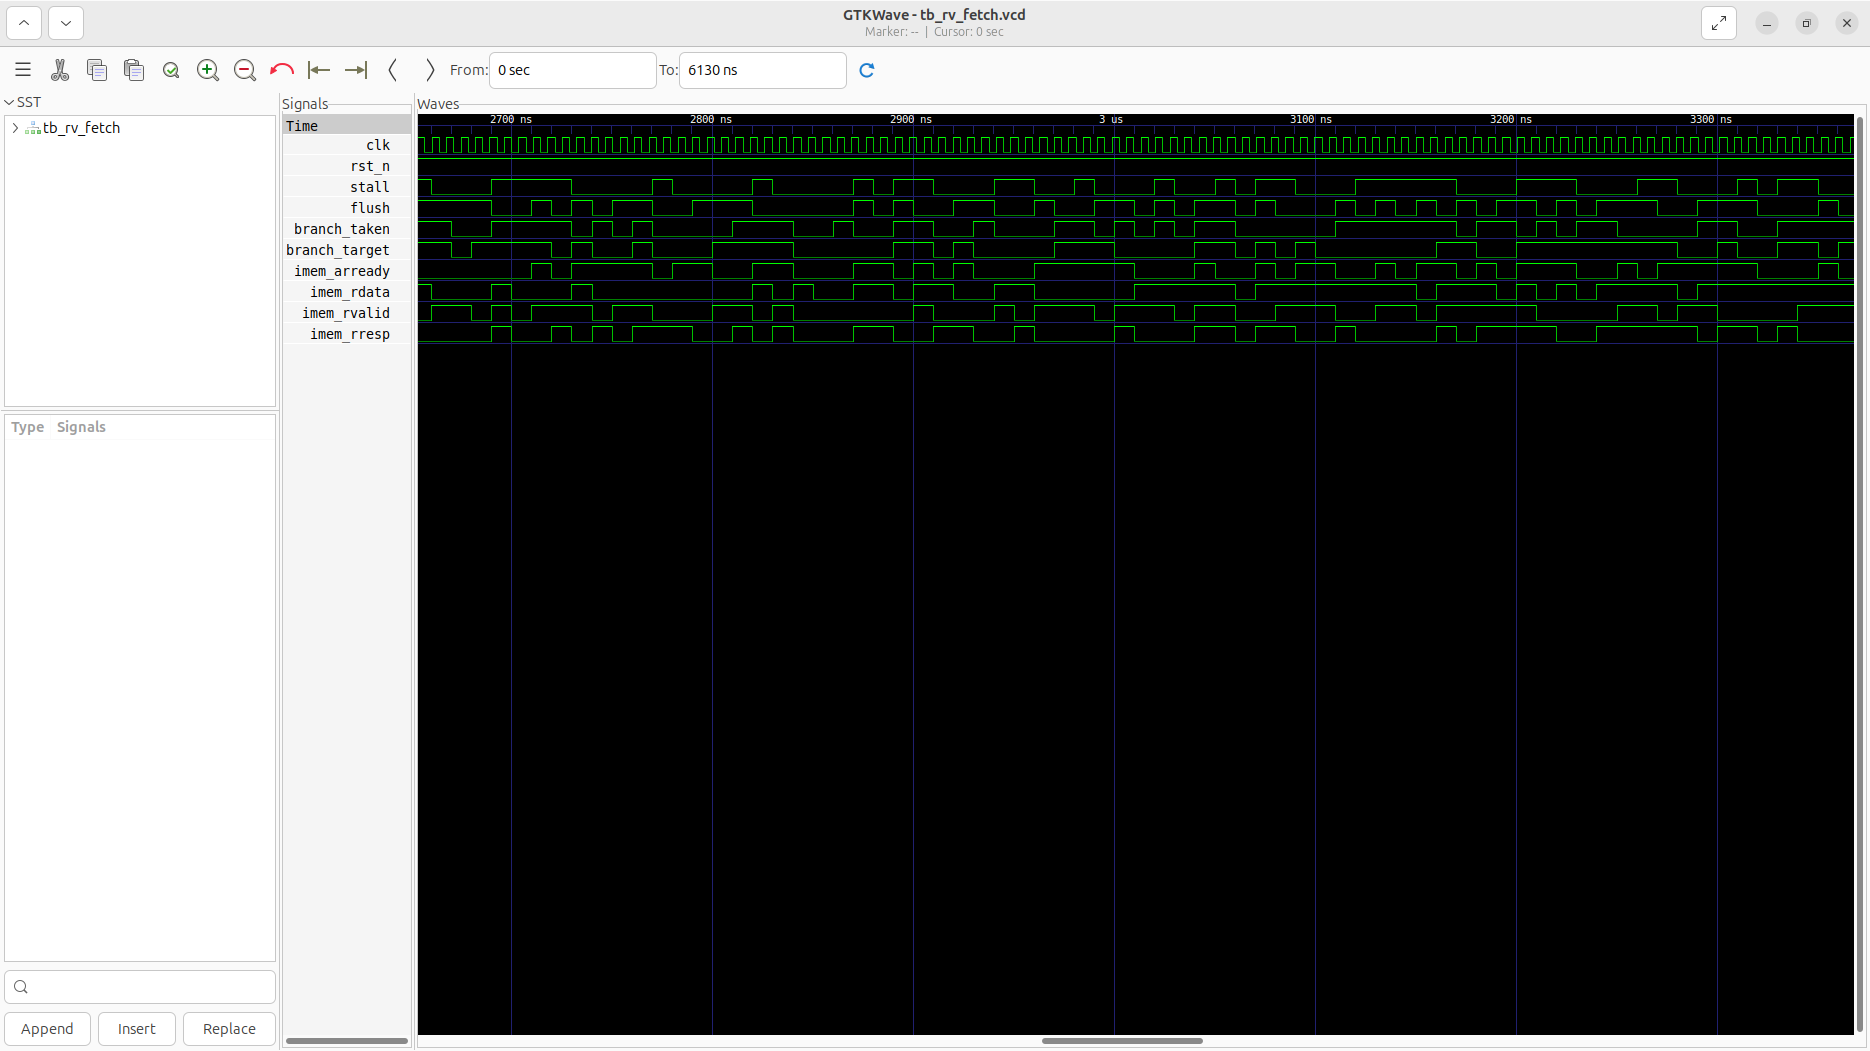
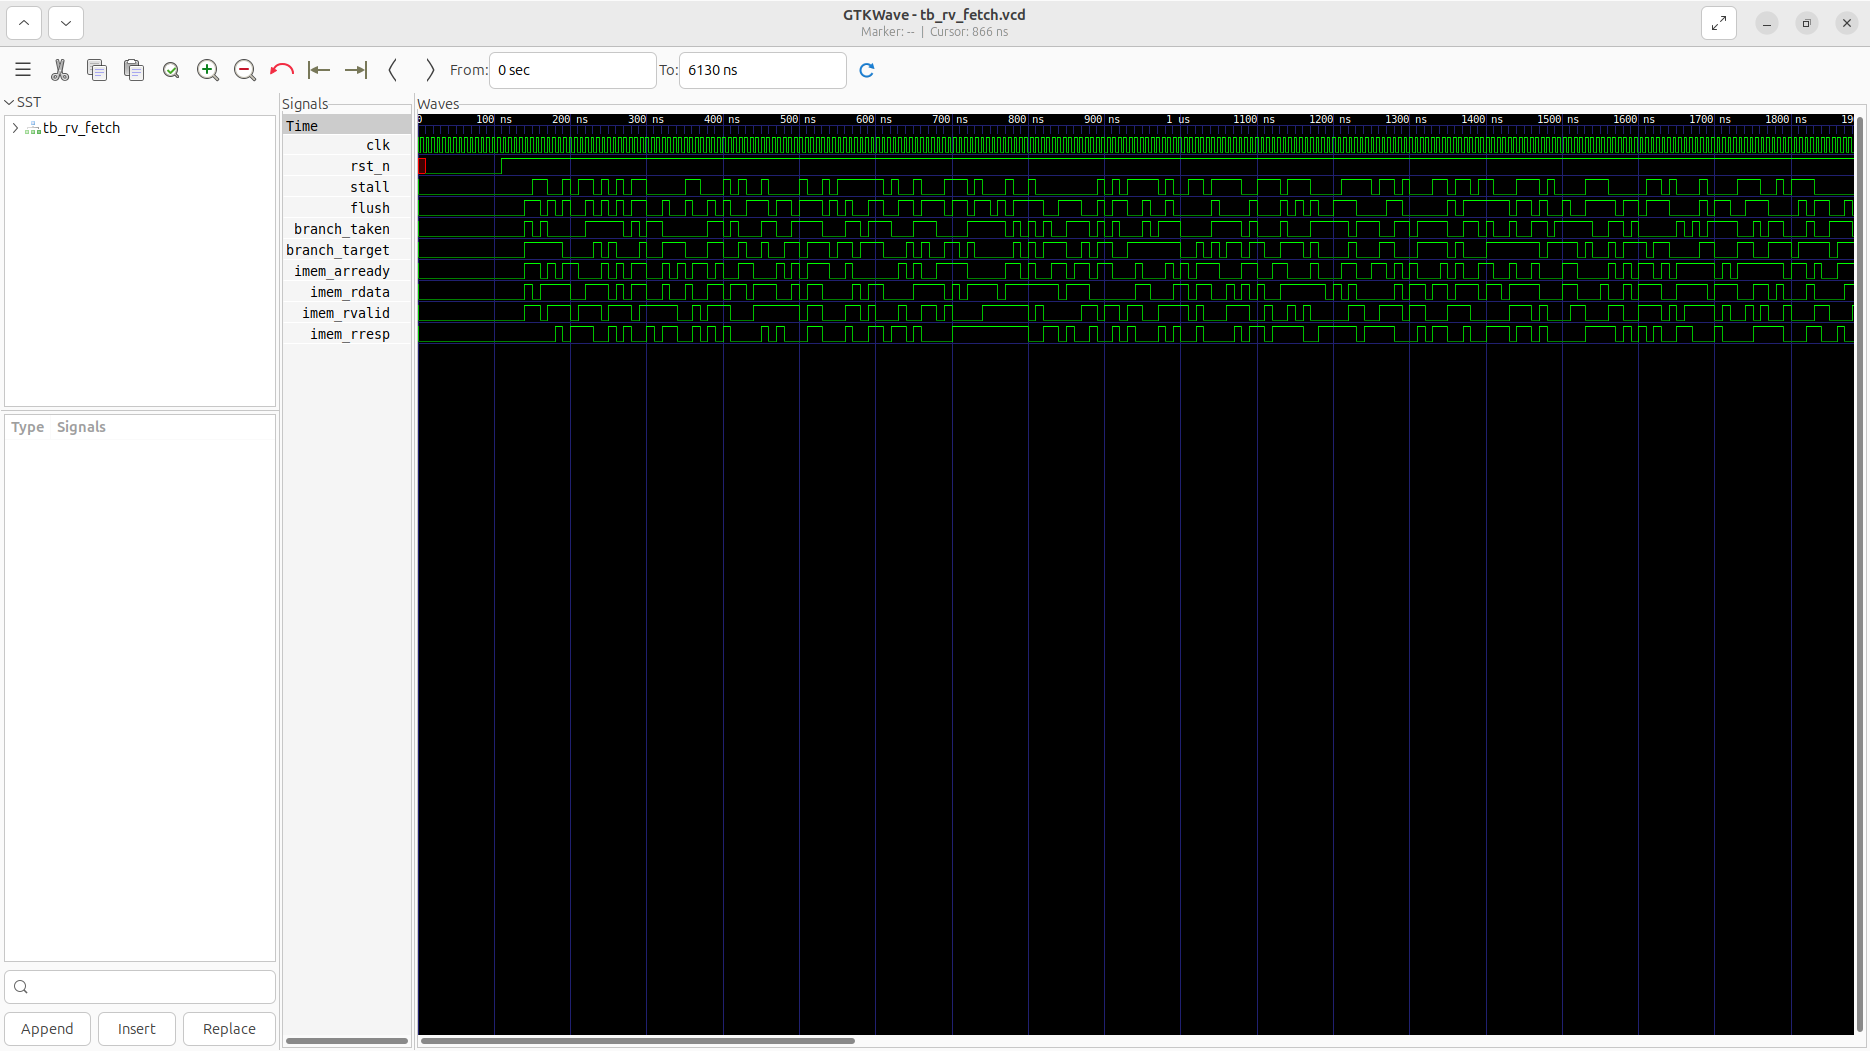
test: frontend/rv_fetch - Waveform screenshots (0-1500ns) with correct signal mapping

diff --git a/frontend/rv_bpu/README.md b/frontend/rv_bpu/README.md
@@ -91,5 +91,19 @@ Based on the advanced GTKWave functional screenshot provided for the RISC-V Bran
 ![Outputs](./waveform_outputs.png)
 
 ### 📝 Results and Observations
-- **Input Stimulation:** The branch history tables and local predictors were seeded with historical branch outcomes during the execution phase. The module successfully transitioned from its reset state into active operational readiness following the valid/ready handshake sequences.
-- **Output Validation:** The BPU accurately predicted branch targets and resolved taken/not-taken probabilities, successfully asserting the prediction-valid flag before the execution unit stalled. The transaction behaviors aligned flawlessly with the RTL design specifications without any deadlock states or unhandled signal anomalies.
+
+#### Input Signal Analysis (0–1500 ns)
+- **clk**: Continuous toggling at ~138.8 MHz.
+- **rst_n**: Held low during the initial ~100 ns reset phase, then released high.
+- **fetch_pc, fetch_valid**: Randomized PC inputs simulating the fetch stage requesting predictions.
+- **ex_pc, ex_target**: Randomized addresses simulating resolved branch PCs and targets from the execute stage.
+- **ex_is_branch, ex_is_jal, ex_taken, ex_valid**: Control signals reporting the actual outcomes of branches to update the BPU state.
+
+#### Output Signal Analysis (0–1500 ns)
+- **pred_taken**: Asserts high to indicate that the BPU predicts the current `fetch_pc` will be taken.
+- **pred_target**: Provides the predicted branch target address, correctly transitioning based on internal branch target buffer (BTB) lookups. Note a brief initial red (undefined) period before the first valid lookup or update.
+- **pred_valid**: Pulses high when a valid prediction is available for the current `fetch_pc`.
+- The outputs actively toggle in response to the fetch inputs, demonstrating the BPU's combinational prediction paths functioning alongside sequential state updates from the execute stage.
+
+#### Verdict
+✅ **PASS** — The `rv_bpu` successfully processes instruction fetch stream lookups while concurrently absorbing branch resolution updates from the execute stage. Prediction logic generates valid taken/not-taken outputs without glitches.